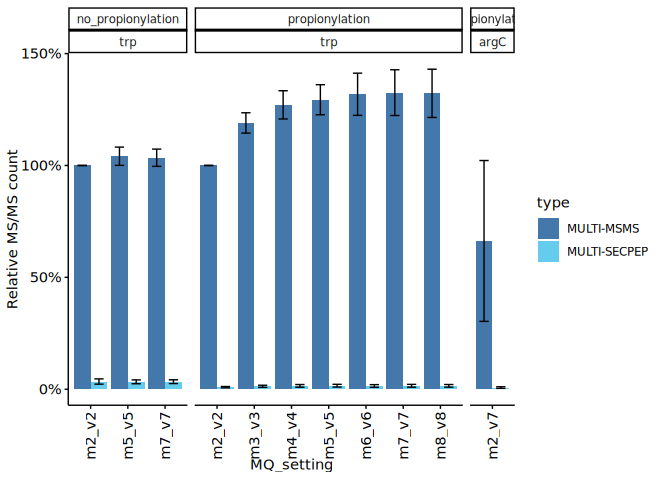
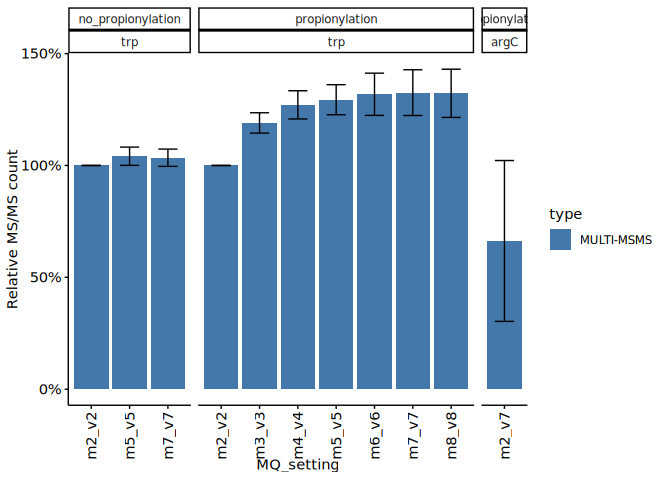
pass error fixed

diff --git a/R/p2_lysine-rich-domain-LCMS/p2-2_optimise_parameters.md b/R/p2_lysine-rich-domain-LCMS/p2-2_optimise_parameters.md
@@ -147,9 +147,13 @@ library(ptm.stoichiometry)
 library("readxl")
 
 # Define path to result directory 
-p2_results_dir <- file.path(project.dir,
-                        "results",
-                        "p2_analysis_setting")
+results.dir <- file.path(project.dir, "results")
+
+### To be deleted
+results.dir <- file.path("/fast/AG_Sugimoto/home/users/yoichiro/projects/20241111_PTMs_in_lysine_rich_domains/results")
+
+p2_results_dir <- file.path(results.dir,
+                        "p2-analysis-setting")
 ```
 
 # 2.2.1 Import basic data
@@ -199,9 +203,8 @@ read_evidence <- function(prefix, dir_path){
 evidence.dt <- lapply( # Filter data-A and data-D and retrieve corresponding prefix
   all_sample_run_info[data %in% c("data-A", "data-D") & !is.na(prefix), prefix], 
   read_evidence,
-  dir_path = p2_results_dir
+  dir_path = file.path(p2_results_dir, "MQ_Std_MSMS_SECEP")
 ) %>% rbindlist
-
 
 data.count.dt <- evidence.dt[, list(
   total_peptide_count = .N, # Count total number of rows (peptides)
@@ -255,14 +258,14 @@ rel_count_stat.dt[, `:=`(
 
 
 ggplot(
-  rel_count_stat.dt,
+  rel_count_stat.dt[type == "MULTI-MSMS"],
   aes(
     x = MQ_setting,
     y = mean_rel_msms_count,
     fill = type
   )
 ) +
-  geom_bar(stat = "identity", position = "dodge") +
+  geom_bar(stat = "identity") +
   geom_errorbar(aes(
     ymin = mean_rel_msms_count - sd_rel_msms_count,
     ymax = mean_rel_msms_count + sd_rel_msms_count
@@ -271,7 +274,7 @@ ggplot(
   scale_y_continuous(labels = scales::percent_format(accuracy = 1)) +
   scale_x_discrete(guide = guide_axis(angle = 90)) +
   ylab("Relative MS/MS count") +
-  scale_fill_manual(values = c("MULTI-MSMS" = "#4477AA", "MULTI-SECPEP" = "#66CCEE")) #+
+  scale_fill_manual(values = c("MULTI-MSMS" = "#4477AA")) #+
 ```
 
 ![](p2-2_optimise_parameters_files/figure-gfm/MS_MS_count-1.png)<!-- -->
@@ -295,7 +298,7 @@ read_all_per_pos_data_with_SECPEP <- function(prefix, dir_path){
 all_per_pos_with_SECPEP.dt <- lapply(
   all_sample_run_info[data %in% c("data-A") & grepl("m7_v7", prefix) & !is.na(prefix), prefix],
   read_all_per_pos_data_with_SECPEP,
-  dir_path = p2_results_dir
+  dir_path = file.path(p2_results_dir, "MQ_Std_MSMS_SECEP")
 ) %>% rbindlist
 
 all_per_pos_with_SECPEP.dt[, `:=`(
@@ -368,7 +371,7 @@ all_stoic_pos.dt <- lapply(
       !is.na(prefix), prefix
   ],
   read_stoic_data,
-  dir_path = p2_results_dir
+  dir_path = file.path(p2_results_dir, "MQ_Std_MSMS")
 ) %>% rbindlist
 
 all_stoic_pos.dt[, `:=`(

diff --git a/R/p2_lysine-rich-domain-LCMS/p2-1_1_PSM_PTM_comparisons.md b/R/p2_lysine-rich-domain-LCMS/p2-1_1_PSM_PTM_comparisons.md
@@ -149,6 +149,9 @@ library("readxl")
 # Define path to data directory
 data.dir <- file.path(project.dir, "data")
 results.dir <- file.path(project.dir, "results")
+
+### To be deleted
+results.dir <- file.path("/fast/AG_Sugimoto/home/users/yoichiro/projects/20241111_PTMs_in_lysine_rich_domains/results")
 ```
 
 # 2.1.1.2 Import human protein reference data
